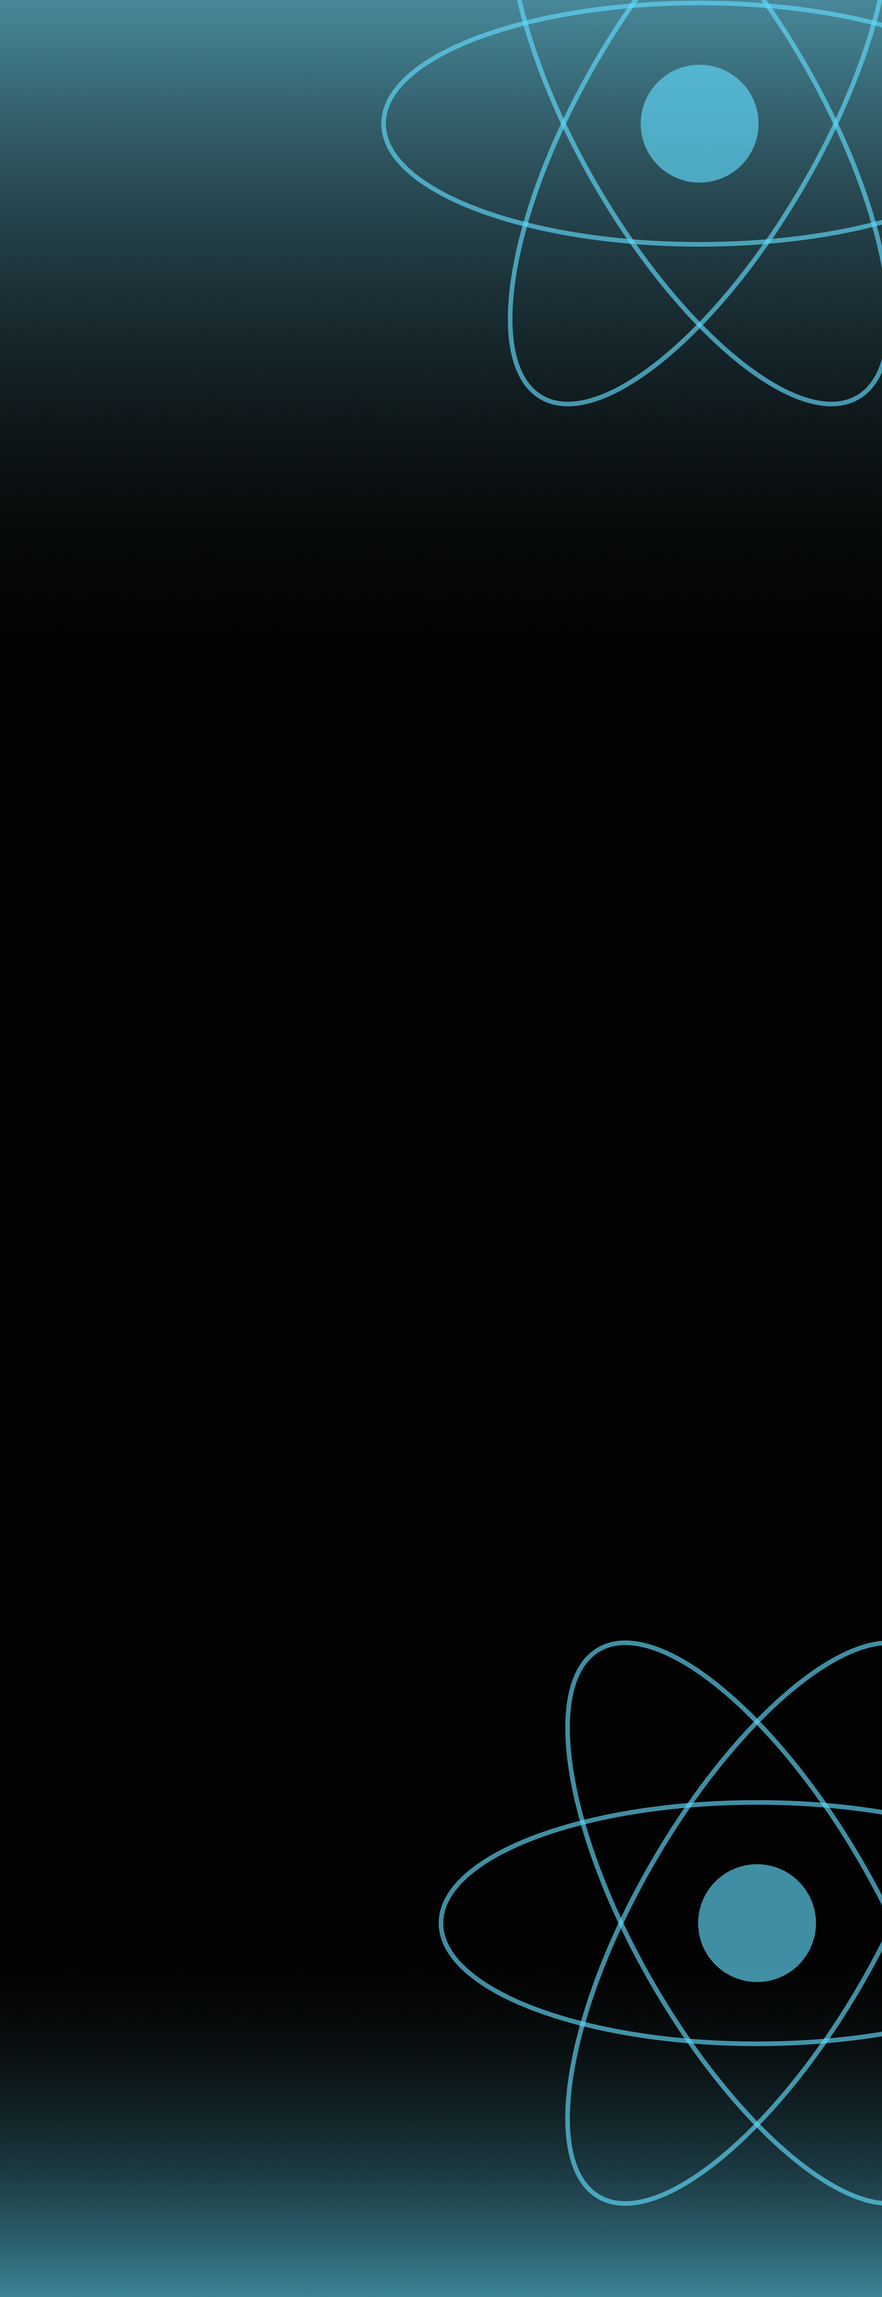
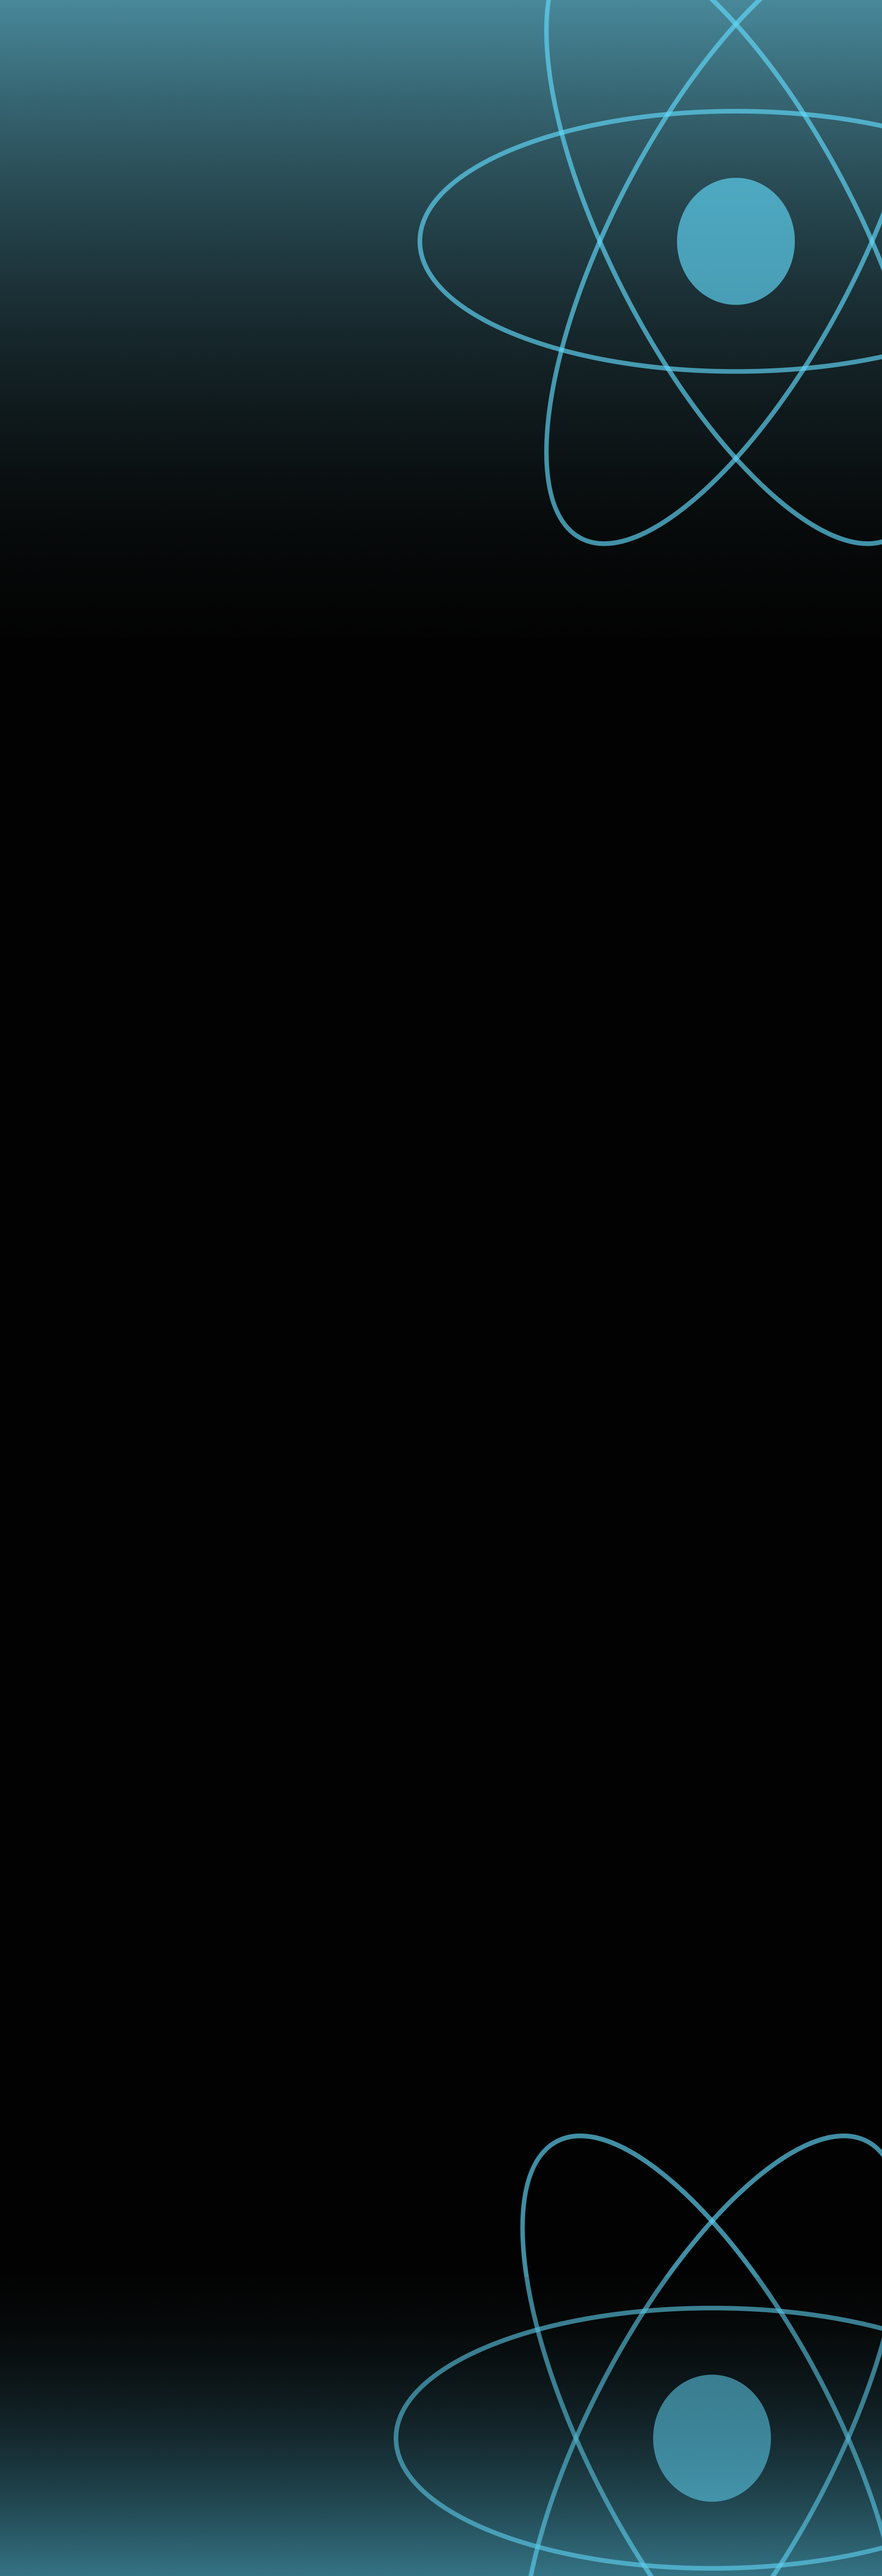
set web version

diff --git a/index.html b/index.html
@@ -20,7 +20,9 @@
       <section class="head">
         <div class="container">
           <header>
-            <a href="#home"><h1>molaraiche</h1></a>
+            <a href="#home">
+              <h1>molaraiche</h1>
+            </a>
             <ul>
               <li><a href="#about">About</a></li>
               <li><a href="#skills">Skills</a></li>
@@ -128,7 +130,65 @@
             </div>
           </div>
         </section>
-        <section id="contact"></section>
+        <section id="contact">
+          <div class="container">
+            <h1><span class="titleColor">Contact</span>me</h1>
+            <div class="contactform">
+              <div class="formandimg">
+                <img src="./images/contactCorners.png" alt="" />
+                <form action="">
+                  <div class="form-grp">
+                    <input required type="text" placeholder="Your Name" />
+                  </div>
+                  <div class="form-grp">
+                    <input
+                      required
+                      type="email"
+                      placeholder="Your email adress"
+                    />
+                  </div>
+                  <div class="form-grp">
+                    <textarea
+                      required
+                      placeholder="Write a message"
+                      name=""
+                      id=""
+                      cols="30"
+                      rows="10"
+                    ></textarea>
+                  </div>
+                  <div class="form-btn">
+                    <input type="submit" value="Send" />
+                  </div>
+                </form>
+              </div>
+              <div class="sociale">
+                <h3>Sociale Media</h3>
+                <div class="socialHolder">
+                  <div>
+                    <a
+                      href="https://www.linkedin.com/in/molaraiche/"
+                      target="_blank"
+                      ><img src="./images/linkedin.png" alt="linkedin"
+                    /></a>
+                  </div>
+                  <div>
+                    <a
+                      href="https://www.instagram.com/molaraiche/"
+                      target="_blank"
+                      ><img src="./images/instagram.png" alt="instagram"
+                    /></a>
+                  </div>
+                  <div>
+                    <a href="https://github.com/molaraiche" target="_blank"
+                      ><img src="./images/github.png" alt="github"
+                    /></a>
+                  </div>
+                </div>
+              </div>
+            </div>
+          </div>
+        </section>
       </section>
     </div>
     <script src="./js/app.js"></script>

diff --git a/css/main.css b/css/main.css
@@ -11,7 +11,8 @@ a {
   font-weight: 600;
 }
 .box {
-  background: url("../images/background.png") scroll no-repeat;
+  background: url("../images/background.png") scroll no-repeat center
+    center/cover;
   font-family: var(--ubuntoFont);
 }
 .head {
@@ -125,7 +126,8 @@ header .burger div {
 }
 #about h1,
 #skills h1,
-#projects h1 {
+#projects h1,
+#contact h1 {
   display: flex;
   align-items: center;
   justify-content: center;
@@ -219,4 +221,74 @@ header .burger div {
 
 #projects a {
   display: none;
+}
+
+.contactform {
+  display: flex;
+  align-items: center;
+  justify-content: space-between;
+  height: 100vh;
+}
+.formandimg {
+  display: flex;
+  align-items: center;
+  justify-content: center;
+}
+.contactform form {
+  display: flex;
+  align-items: center;
+  justify-content: center;
+  flex-direction: column;
+}
+
+.contactform .form-grp {
+  width: 100%;
+  margin: 10px 0px;
+}
+
+.contactform .form-grp input,
+.contactform .form-grp textarea {
+  padding: 10px;
+  width: 100%;
+  background: none;
+  border: none;
+  border-bottom: 2px solid var(--mainColor);
+  resize: vertical;
+  border-radius: 5px;
+  color: #fff;
+  font-weight: 550;
+}
+.contactform .form-grp input:focus,
+.contactform .form-grp textarea:focus {
+  outline: none;
+}
+
+.contactform .form-btn {
+  width: 100%;
+}
+.contactform .formandimg {
+  width: 60%;
+}
+.contactform .form-btn input {
+  width: 100%;
+  padding: 10px;
+  background: none;
+  border: 2px solid var(--mainColor);
+  color: #fff;
+  cursor: pointer;
+}
+.contactform .sociale {
+  display: flex;
+  align-items: center;
+  flex-direction: column;
+  justify-content: center;
+  width: 40%;
+}
+.contactform .sociale img {
+  width: 80px;
+}
+.contactform .socialHolder {
+  display: flex;
+  align-items: center;
+  justify-content: center;
 }
